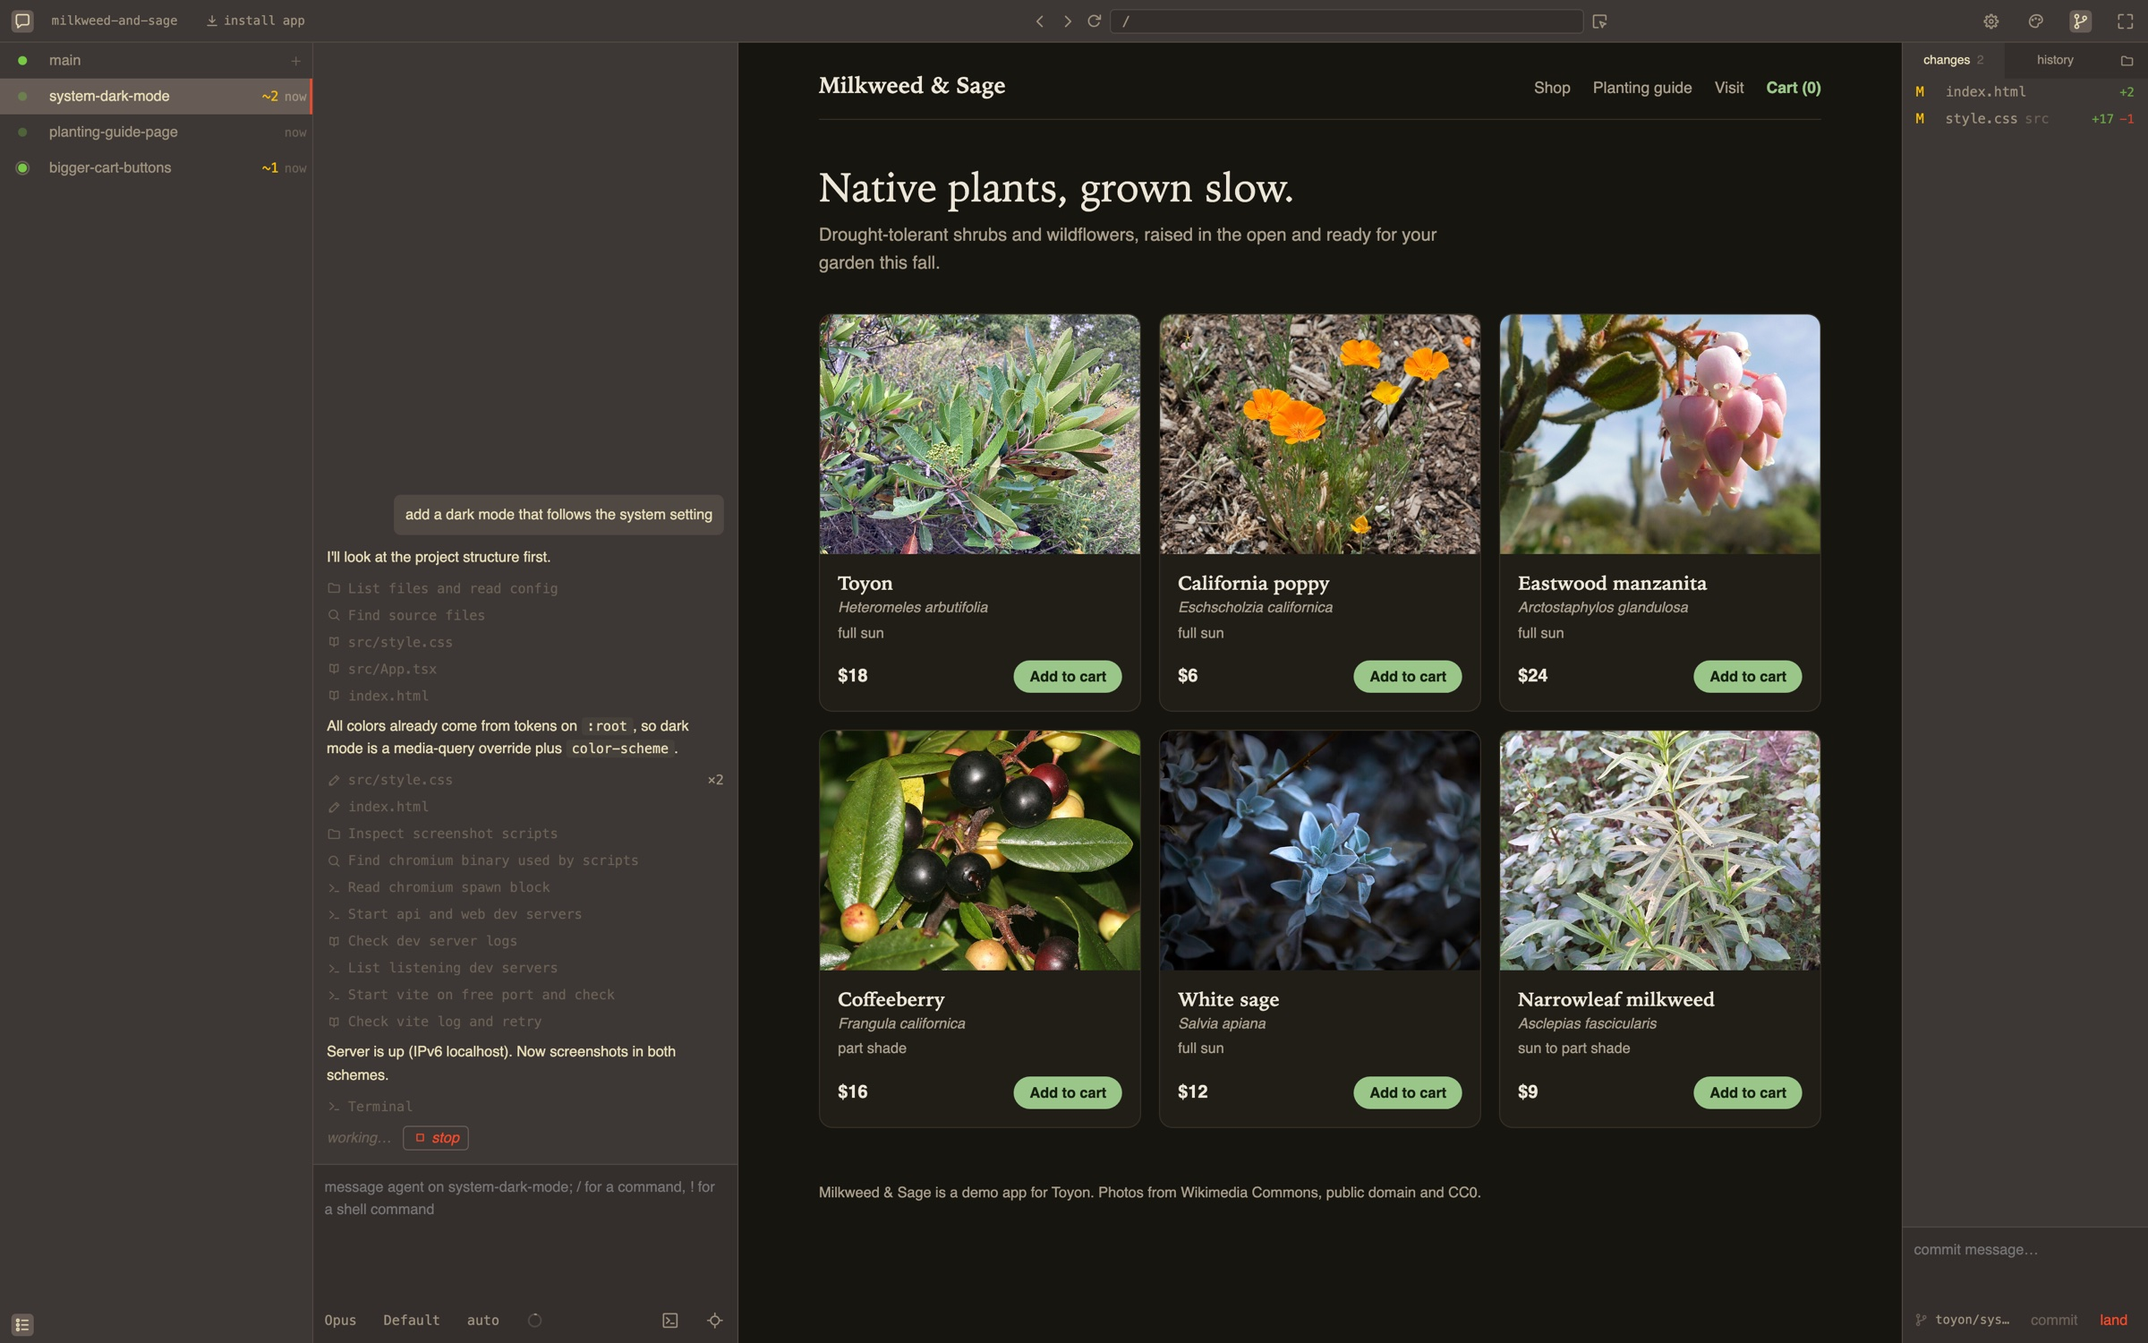
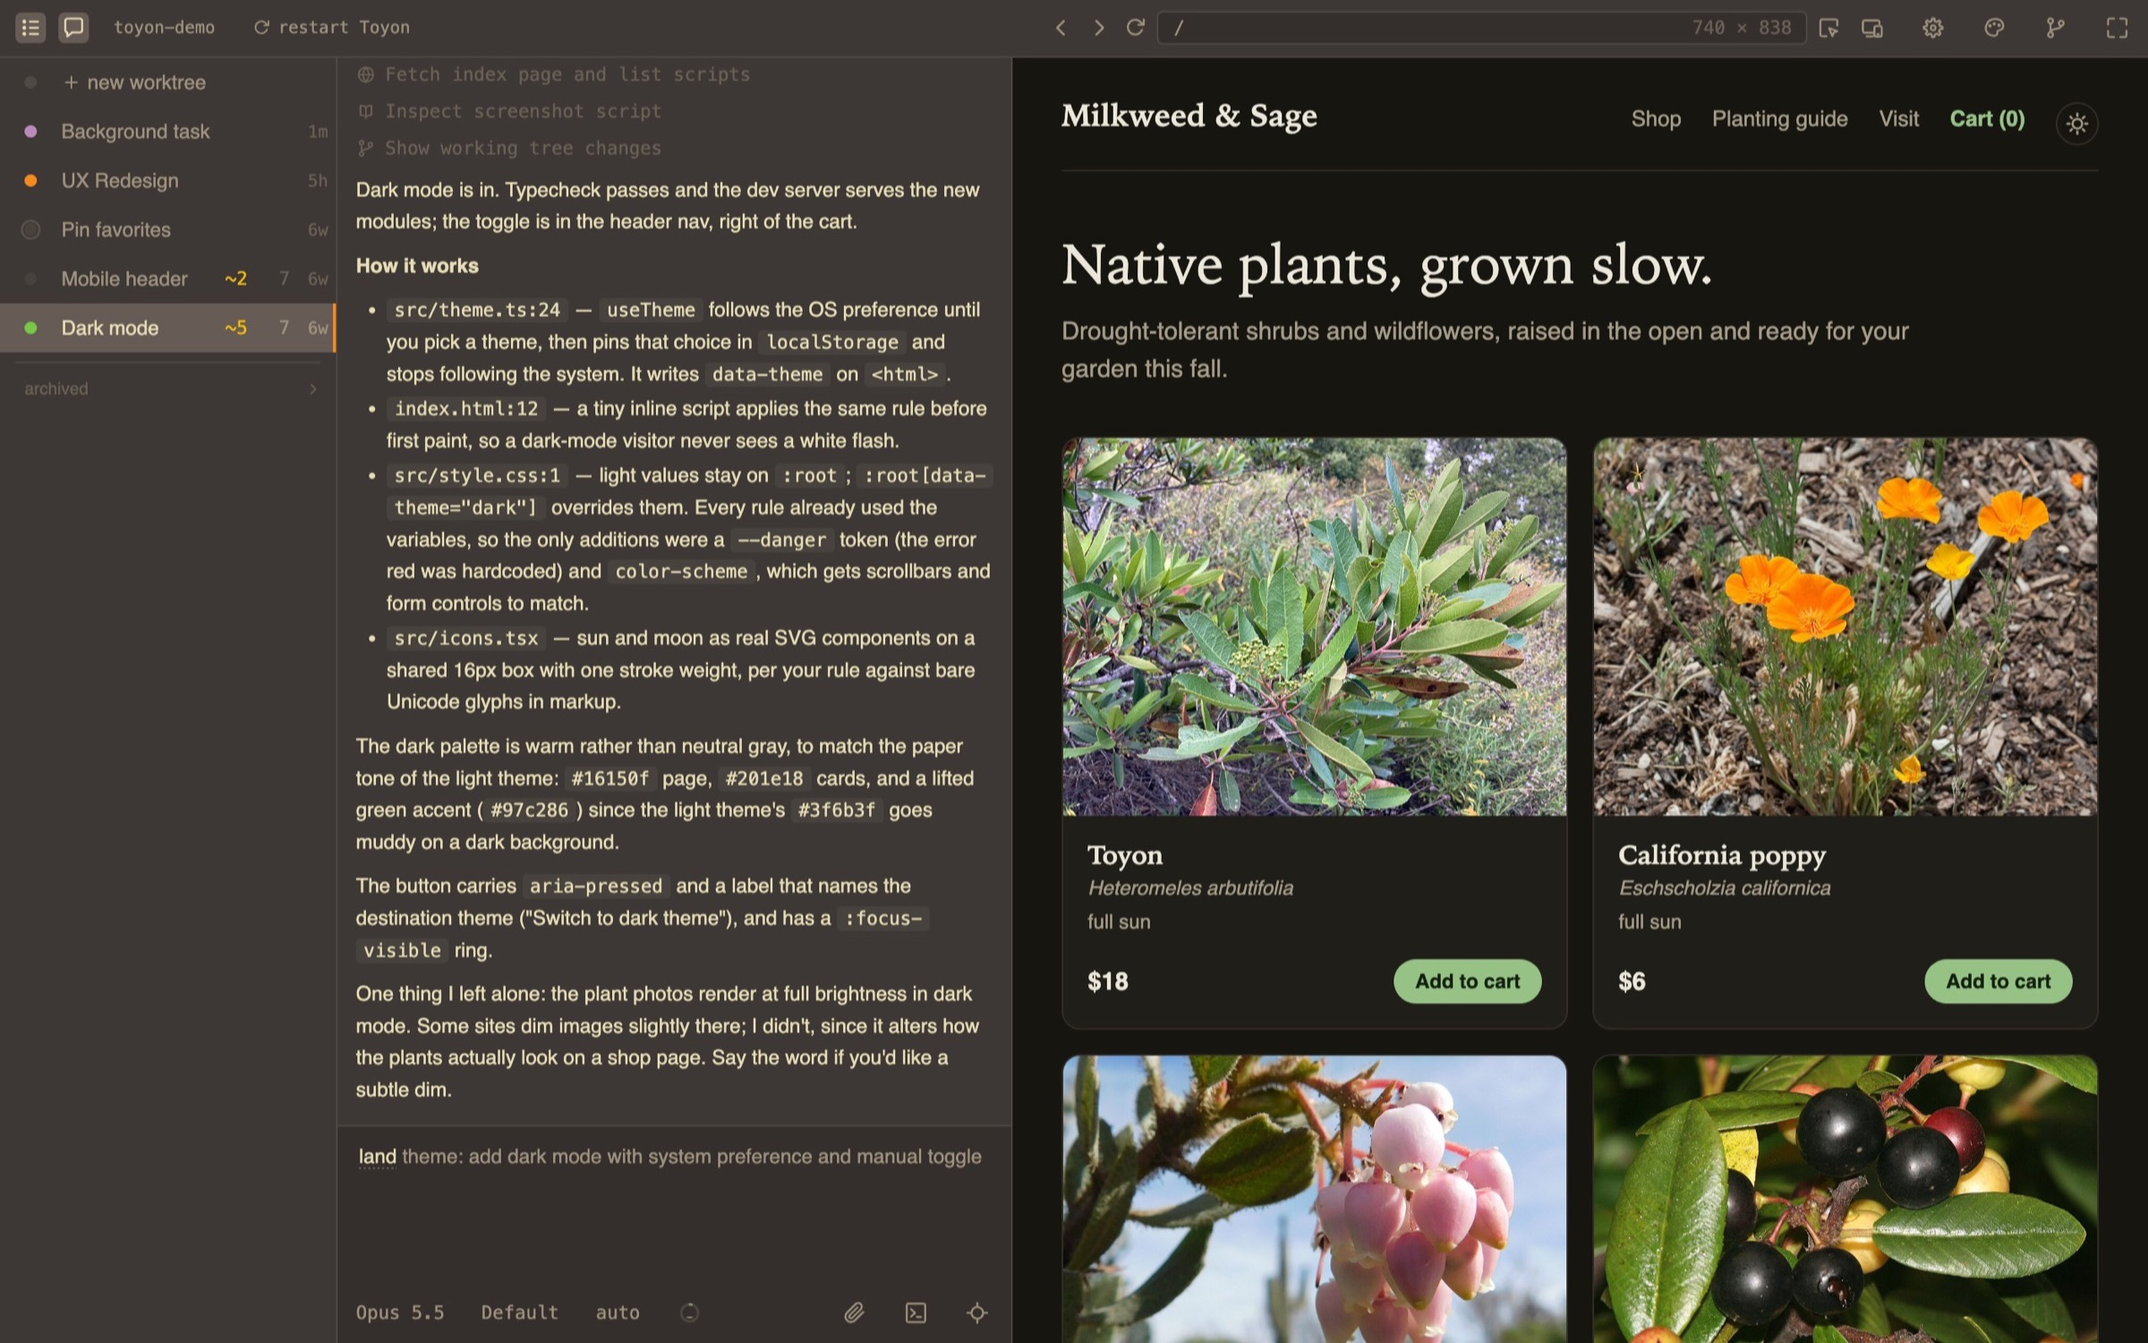
mirror updated docs and refresh social preview image
The docs now come from Toyon main, including the renamed remote page, the rewritten preview page and a heading change in install. The social preview image is recut from the hero window, and the image width, height and alt tags are added. The build script and stylesheet are also tidied.

diff --git a/build.ts b/build.ts
@@ -6,8 +6,9 @@
 // beside the app and take its own dark theme (style.css, `.dark`). public/ is copied over as it is.
 //
 //   bun build.ts            build once
-//   bun build.ts --serve    build, rebuild as src/ and public/ change, and serve dist/ on $PORT
-//                           (what the Toyon preview runs)
+//   bun build.ts --serve    build, rebuild as src/, public/ or this file change, and serve dist/
+//                           on $PORT (what the Toyon preview runs)
+//   bun build.ts --again    build without clearing dist/ first (what --serve runs on a change)
 
 import { cp, mkdir, readdir, readFile, rm, stat, writeFile } from "node:fs/promises";
 import { join, resolve, sep } from "node:path";
@@ -22,7 +23,13 @@ const ORDER = ["install", "settings", "preview", "agents", "remote", "trust", "p
 const REPO = "https://github.com/toyon-dev/toyon/blob/main/docs/";
 const RAW = "https://raw.githubusercontent.com/toyon-dev/toyon/main/docs/";
 
-const part = (page: string, tag: string) => page.match(new RegExp(`<${tag}>([\\s\\S]*?)</${tag}>`))?.[1].replace(/^\n+|\n+$/g, "") ?? "";
+// a page's <head> or <body>, less its comments: like the stylesheet's, they are for whoever
+// edits the page, not the visitor
+const part = (page: string, tag: string) =>
+  page
+    .match(new RegExp(`<${tag}>([\\s\\S]*?)</${tag}>`))?.[1]
+    .replace(/[ \t]*<!--[\s\S]*?-->\n?/g, "")
+    .replace(/^\n+|\n+$/g, "") ?? "";
 const esc = (s: string) => s.replace(/[&<>"]/g, (c) => ({ "&": "&amp;", "<": "&lt;", ">": "&gt;", '"': "&quot;" })[c]!);
 // a paragraph of markdown as plain words, for a meta description or an index line
 const plain = (md: string) => md.replace(/`/g, "").replace(/\[([^\]]+)\]\([^)]*\)/g, "$1").replace(/\*+/g, "").replace(/\s+/g, " ").trim();
@@ -138,26 +145,34 @@ ${index.join("\n")}
   await writeFile(join(OUT, DOCS, "index.html"), render(head, body, "dark"));
 }
 
+const SELF = import.meta.path;
 if (!process.argv.includes("--serve")) {
-  await rm(OUT, { recursive: true, force: true });
+  if (!process.argv.includes("--again")) await rm(OUT, { recursive: true, force: true });
   await build();
 } else {
   await build();
   // A poll of the sources' mtimes rather than fs.watch: a dozen files, and it works the same
-  // everywhere, sandboxes included.
+  // everywhere, sandboxes included. This file counts as a source too, and a change runs the
+  // build as a fresh process, since the one here keeps the code it started with: a serve left
+  // running across an edit to the renderer would otherwise keep writing the old pages over the
+  // new ones every time a source moved.
   const stamp = async () => {
-    let sum = 0;
+    let sum = (await stat(SELF)).mtimeMs;
     for (const dir of [SRC, PUBLIC]) {
       for (const f of await readdir(dir, { recursive: true })) sum += (await stat(join(dir, f))).mtimeMs;
     }
     return sum;
   };
   let last = await stamp();
+  let building = false;
   setInterval(async () => {
     const now = await stamp();
-    if (now === last) return;
+    if (now === last || building) return;
     last = now;
-    await build().catch(console.error);
+    building = true;
+    const run = Bun.spawn(["bun", SELF, "--again"], { stdout: "inherit", stderr: "inherit" });
+    if ((await run.exited) !== 0) console.error("build failed");
+    building = false;
   }, 300);
   const root = resolve(OUT);
   const server = Bun.serve({

diff --git a/src/style.css b/src/style.css
@@ -266,7 +266,7 @@ footer a:hover {
   color: var(--ink-2);
 }
 
-/* Hero: text to the left, the specimen in the right margin. */
+/* Hero: the headline, its line and the way in, on the column's left edge at the measure. */
 
 /* The hero fills the top of the screen down to where the screenshot starts, at about three
    fifths of the viewport, so the window's top edge shows above the fold and says there is more.
@@ -274,9 +274,7 @@ footer a:hover {
    the middle of what is left, and never closer than 5rem to either. */
 .hero {
   display: grid;
-  grid-template-columns: minmax(0, var(--measure)) minmax(14rem, 1fr);
-  gap: 3rem var(--gutter);
-  align-items: center;
+  grid-template-columns: minmax(0, var(--measure));
   align-content: center;
   max-width: var(--col);
   min-height: calc(60svh - var(--nav) - 3rem);
@@ -357,15 +355,6 @@ footer a:hover {
   font-size: 0.9rem;
 }
 
-.specimen {
-  margin: 0;
-  justify-self: end;
-  width: min(100%, 16rem);
-}
-
-
-
-
 /* Sections */
 
 /* One left edge. Every section spans the column; prose inside it stops at the
@@ -398,25 +387,6 @@ section {
   border: 1px solid var(--rule);
   background: #32302d;
 }
-
-/* An empty picture slot, until the capture exists. */
-.slot {
-  border: 1px solid var(--rule);
-  border-radius: 6px;
-}
-
-.slot-window {
-  aspect-ratio: 1400 / 876;
-}
-
-.slot-step {
-  aspect-ratio: 3 / 2;
-}
-
-.slot-plate {
-  aspect-ratio: 320 / 440;
-}
-
 
 /* How it works: the first step is the section. Its title and caption head it, and its picture,
    the whole window changing, runs the column's width under them. The other two steps are clips
@@ -740,7 +710,6 @@ footer a {
   }
 
   .hero {
-    grid-template-columns: 1fr;
     min-height: 0;
     padding: 3rem 0;
   }
@@ -760,12 +729,6 @@ footer a {
     margin-left: 0.4rem;
     translate: 0;
     vertical-align: -0.1em;
-  }
-
-  .specimen {
-    order: -1;
-    justify-self: start;
-    width: 11rem;
   }
 
   .steps ul,

diff --git a/src/index.html b/src/index.html
@@ -6,6 +6,9 @@
   <meta property="og:title" content="Toyon">
   <meta property="og:description" content="Toyon is where coding agents work on your web app while you check each change by using it. Every chat gets its own running copy with a live preview.">
   <meta property="og:image" content="https://toyon.dev/toyon.jpg">
+  <meta property="og:image:width" content="2400">
+  <meta property="og:image:height" content="1500">
+  <meta property="og:image:alt" content="The Toyon window: the list of chats down the left, the chat beside it, and the app it is working on, a plant shop, filling the rest.">
   <meta name="twitter:card" content="summary_large_image">
 </head>
 <body>
@@ -19,7 +22,6 @@
           <a href="#install">Install and requirements</a>
         </div>
       </div>
-      <!-- The drawn specimen goes here (VOICE.md, "The look"): one true toyon branch, line work with the berries the only colour. -->
     </header>
 
     <section class="window" aria-label="Toyon in use">

diff --git a/src/docs/preview.md b/src/docs/preview.md
@@ -1,44 +1,42 @@
-# The preview
+# Preview
 
-Every copy of your project runs its own dev server on its own port, and the preview in the middle of the window is that server in a frame. Switching chats switches frames; each one keeps its page, its scroll and its cookies.
+What the preview tells the agent, how the picker finds a line, and where the frame stops.
 
-The frame is a browser. cmd+R reloads it (and starts the app again when it is down), cmd+left and cmd+right step its history, cmd+U opens a list of the app's pages, and cmd+. gives the page the whole window. If a server ignores `$PORT` and comes up somewhere else, the preview follows it there and the log says which flag to add.
+The frame is a browser showing your copy's dev server. The keys that drive it (reload, back and forward, the page list, the picker, the design pane) are listed with the rest under cmd+, in the shell. This page is about what you cannot see from the frame.
 
 ## What the agent is told
 
-Every message you send carries a short block the agent reads as coming from Toyon, not from you: the route you are on, the page title, the last three console errors, and where the preview answers, so the agent checks its work there instead of starting a server of its own. A message that is only a slash command goes alone, so the command still dispatches.
+Every message you send carries a block the agent reads as coming from Toyon, not from you: the route you are on, the page title, what the page has thrown since it last loaded, and where the preview answers, so the agent checks its work there instead of starting a server of its own. Anything you ran with `!` since your last message rides along too; its output is on your screen and not the agent's.
 
-The block is built when you press send, from the page as it stands then.
+The block is built when you press send, from the page as it stands then. Up to five errors are kept, oldest first, and a reload clears them: a page that comes back clean after a fix has nothing to say. None of them goes on the transcript. A dev server hot-swaps every file the agent writes, and a half-written edit throws as a matter of course.
 
-## Point at an element
+A message that is only a slash command goes alone, with no block, so the command still dispatches.
 
-cmd+E, or the pick button in the composer, turns the pointer into a picker. Clicking an element puts a chip in the composer named for its component, `<PriceBadge />`, or its tag when there is none. The agent gets the component, the file and line it is written on, the element's own text, and its HTML.
+## How the picker finds the line
 
-When the element is a shared control, a `<button>` inside your `Button` component, the chip carries two places: the line that uses it, which is almost always the one to change, and the line where the component's own markup lives. The agent is told which is which.
-
-cmd+I, or the inspect button in the top bar, is the same picker with the other verb: the click opens the line in the editor pane instead of the chat. Hold alt while clicking to swap the two.
+cmd+E, or the pick button in the composer, turns the pointer into a picker. Clicking an element puts a chip in the composer named for its component, `<PriceBadge />`, or its tag when there is none, and the agent gets the component, the file and line it is written on, the element's own text, and its HTML. cmd+I is the same picker with the other verb: the click opens the line in the editor pane instead of the chat. Hold alt while clicking to swap the two.
 
 Where the line comes from:
 
 - A React app in development records where each element was written, and the picker reads that. React 19 dropped the old record and the picker reads the newer one.
 - Any other page, a server-rendered template, a production build, plain HTML, is searched instead. The picker sends what the element shows of itself, its id, its classes, its own text and hand-written attributes like a placeholder, and the source is searched for those. A clear winner opens at once; otherwise a short list asks which.
 
+When the element is a shared control, a `<button>` inside your own `Button` component, the chip carries two places: the line that uses it, which is almost always the one to change, and the line where the component's own markup lives. The agent is told which is which.
+
 The picker draws an outline and nothing else. It never changes the page.
 
-## See a change on the page
+## What the outlines mean
 
-Hover a changed file in the changes list and everything that file draws is outlined in the page. Hover a line in a diff and the element that line draws is outlined. A file that renders nothing on the current route outlines nothing.
+Hover a changed file in the changes list and everything that file draws on the current page is outlined. Hover a line in a diff and the element that line draws is. A file that renders nothing on this route outlines nothing, so a change you cannot find is on another page, not missing.
 
-## The design pane
-
-cmd+D opens a pane that reads the copy's design system from its source: the tokens it declares, the components it exports, the class families it uses, and the colours and sizes written in place where there is no token to name them. Hovering a row outlines every match in the running page; clicking one opens its source. The scan is static and does not need the page to be up.
+The design pane (cmd+D) reads the copy's tokens, components and class families from the source, and hovering one of its rows outlines every match in the page the same way; clicking one opens its source.
 
 ## When the page is empty
 
-A server that crashed or never answered shows a card in place of the page with the reason and its last lines of output. "Ask the agent to fix it" sends that card: the command, the port it was given, the tail of the log, and the rule the fix has to satisfy. When the turn ends the process is restarted and checked again.
+A server that crashed or never answered shows a card in place of the page with the reason and its last lines of output. "ask the agent to fix it", offered while the agent is idle, sends that card: the command, the port it was given, how it failed, the tail of the log, and the rule the fix has to satisfy. When the turn ends the process is restarted and checked again. "edit setup" beside it opens the command for you to change yourself.
 
 ## What it does not do
 
 - No screenshot from inside the frame. A browser gives a page no way to capture itself, so the picker sends markup and text, not pixels.
-- No network panel yet. What the app fetched, and what came back, is in your browser's devtools on the frame.
-- Each copy has its own cookies, so a new chat's app starts signed out, and an OAuth provider cannot redirect into a preview. `docs/settings.md` says how a project keeps its copies apart.
+- No network panel. What the app fetched, and what came back, is in your browser's devtools on the frame.
+- Each copy has its own cookies, so a new chat's app starts signed out, and an OAuth provider cannot redirect into a preview. [settings.md](settings.md#keeping-copies-apart) says how a project keeps its copies apart.

diff --git a/src/docs/remote.md b/src/docs/remote.md
@@ -1,6 +1,6 @@
-# Toyon somewhere other than your laptop
+# Your own server
 
-Toyon can run on a box you open from your phone, or on your own Fly account with the laptop closed. None of it passes through a Toyon server; there is none. These routes are new. On Fly, a browser has opened the shell and two copies' previews, an agent's edit has shown up in a preview without a reload, and every refusal has been checked from outside. On a tailnet, a phone has opened the shell and a preview and seen an agent's edit arrive without a reload. The Caddy route has been checked with requests shaped like its own, and has not been opened from a phone yet. On a phone, the shell switches between the chat, the preview and the code with tabs in the bar.
+Toyon can run on a box you open from your phone, or on your own Fly account with the laptop closed. None of it passes through a Toyon server; there is none. On a phone, the shell switches between the chat, the preview and the code with tabs in the bar. These routes are new; what each has been checked with is at the end.
 
 ## Pairing a device
 
@@ -82,3 +82,7 @@ A host with a single public port needs your own wildcard domain and the `w{id}` 
 The link carries the token, and the token is a shell on that machine: keep it to yourself. A project whose server bakes another server's address into its bundle (`API_URL` and the like) points the browser at `127.0.0.1`, which a phone cannot reach; a project with one server works.
 
 The daemon still listens on loopback only. A front on the same machine admits one name, over https only, and on a Fly machine the platform's proxy is that front. The name typed without `https://` is sent to it; the token in the link stays in the browser through that. A preview reached through the name also needs a cookie the toyon page is given, which the dev server behind it never sees. The rest of the boundary is in [trust.md](trust.md).
+
+## What has been checked
+
+On Fly, a browser has opened the shell and two copies' previews, an agent's edit has shown up in a preview without a reload, and every refusal has been checked from outside. On a tailnet, a phone has opened the shell and a preview and seen an agent's edit arrive without a reload. The Caddy route has been checked with requests shaped like its own, and has not been opened from a phone yet.

diff --git a/src/docs/install.md b/src/docs/install.md
@@ -39,7 +39,7 @@ Started with npx there is nothing to keep current: npx runs the version you name
 
 Each project's settings are in `.toyon/settings.json`, or in `toyon.json` at its root; every key, the port rules and the sleep delay are in [settings.md](settings.md).
 
-## Somewhere other than your laptop
+## Your own server
 
 Toyon can also run on a box you open from your phone, or on your own Fly account with the laptop closed. How to set up each route, and what it has been checked with, is in [remote.md](remote.md).
 
